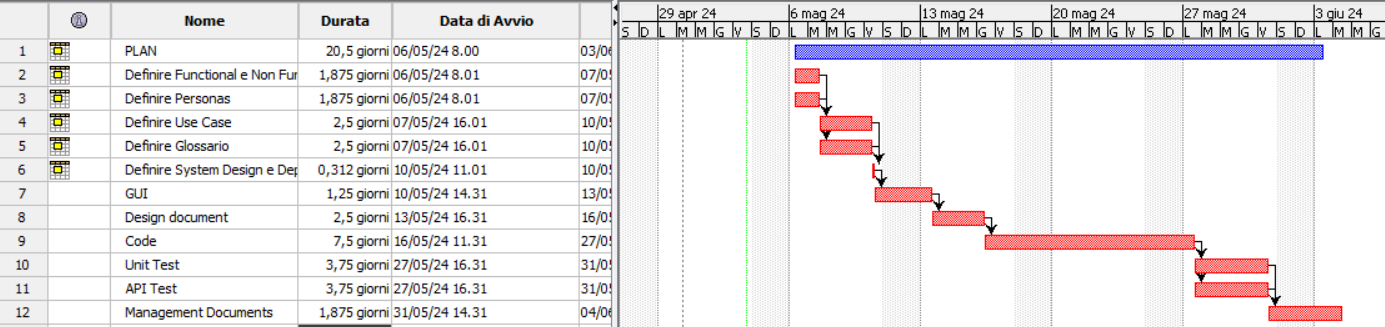
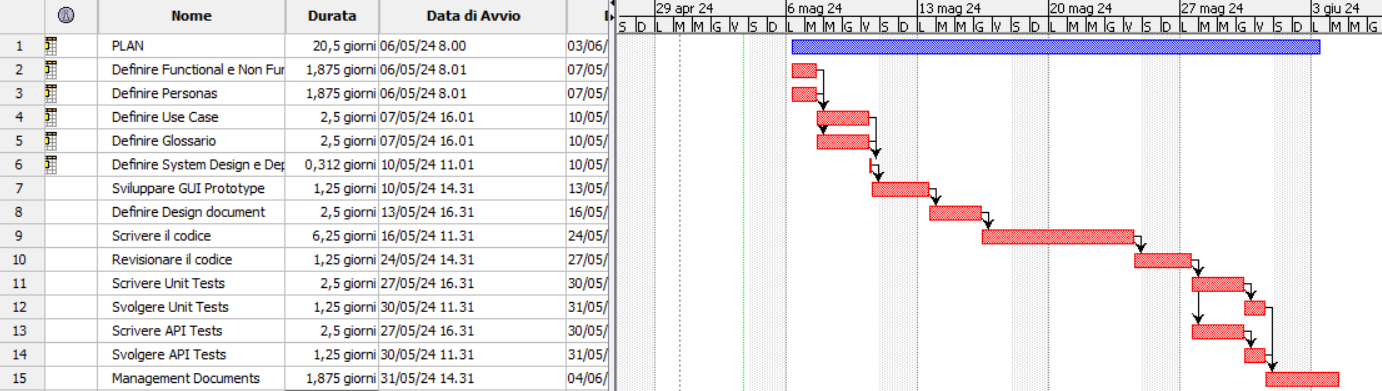
[EDIT] RDv2 Gantt and Estimations

diff --git a/EstimationV2.md b/EstimationV2.md
@@ -42,9 +42,12 @@ Consider the EZElectronics  project in FUTURE version (as proposed by your team 
 | Definire System Design e Deployment Diagram | 10 ore |
 | Sviluppare GUI Prototype | 40 ore |
 | Definire Design Document | 80 ore |
-| Scrivere il Codice | 240 ore |
-| Svolgere Unit Tests | 60 ore |
-| Svolgere Api Tests | 60 ore |
+| Scrivere il Codice | 200 ore |
+| Revisionare il Codice | 40 ore |
+| Svolgere Unit Tests | 40 ore |
+| Svolgere Unit Tests | 20 ore |
+| Svolgere Api Tests | 40 ore |
+| Svolgere Unit Tests | 20 ore |
 | Definire Management Documents | 60 ore |
 ###
 (Considerando un team di 4 persone)
